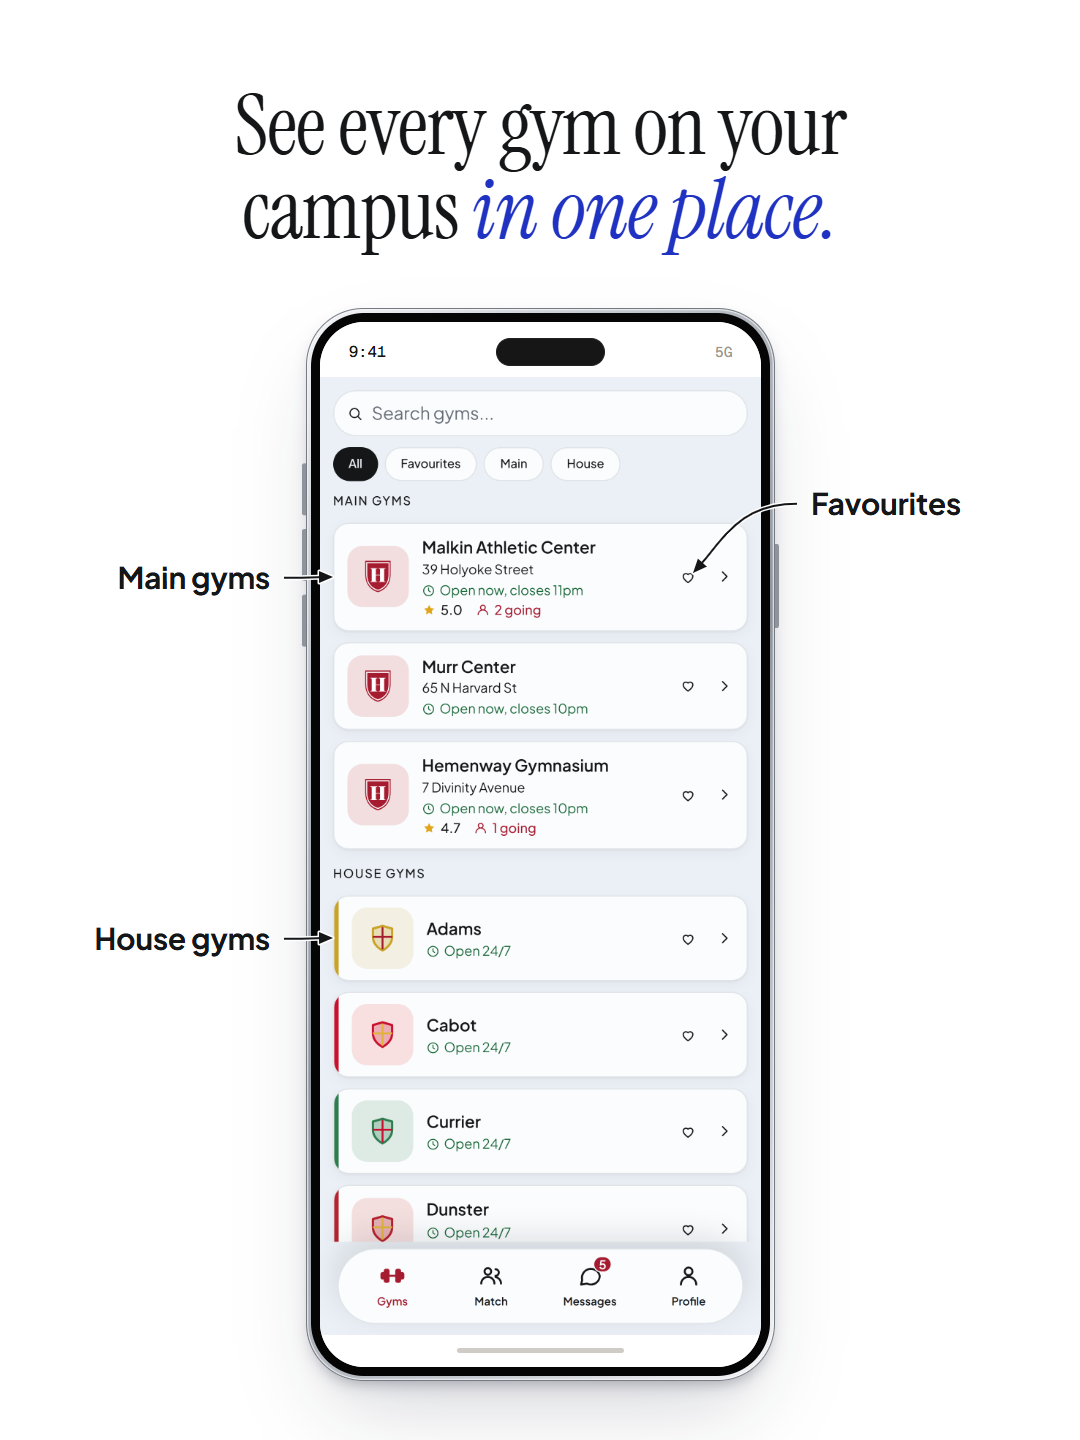
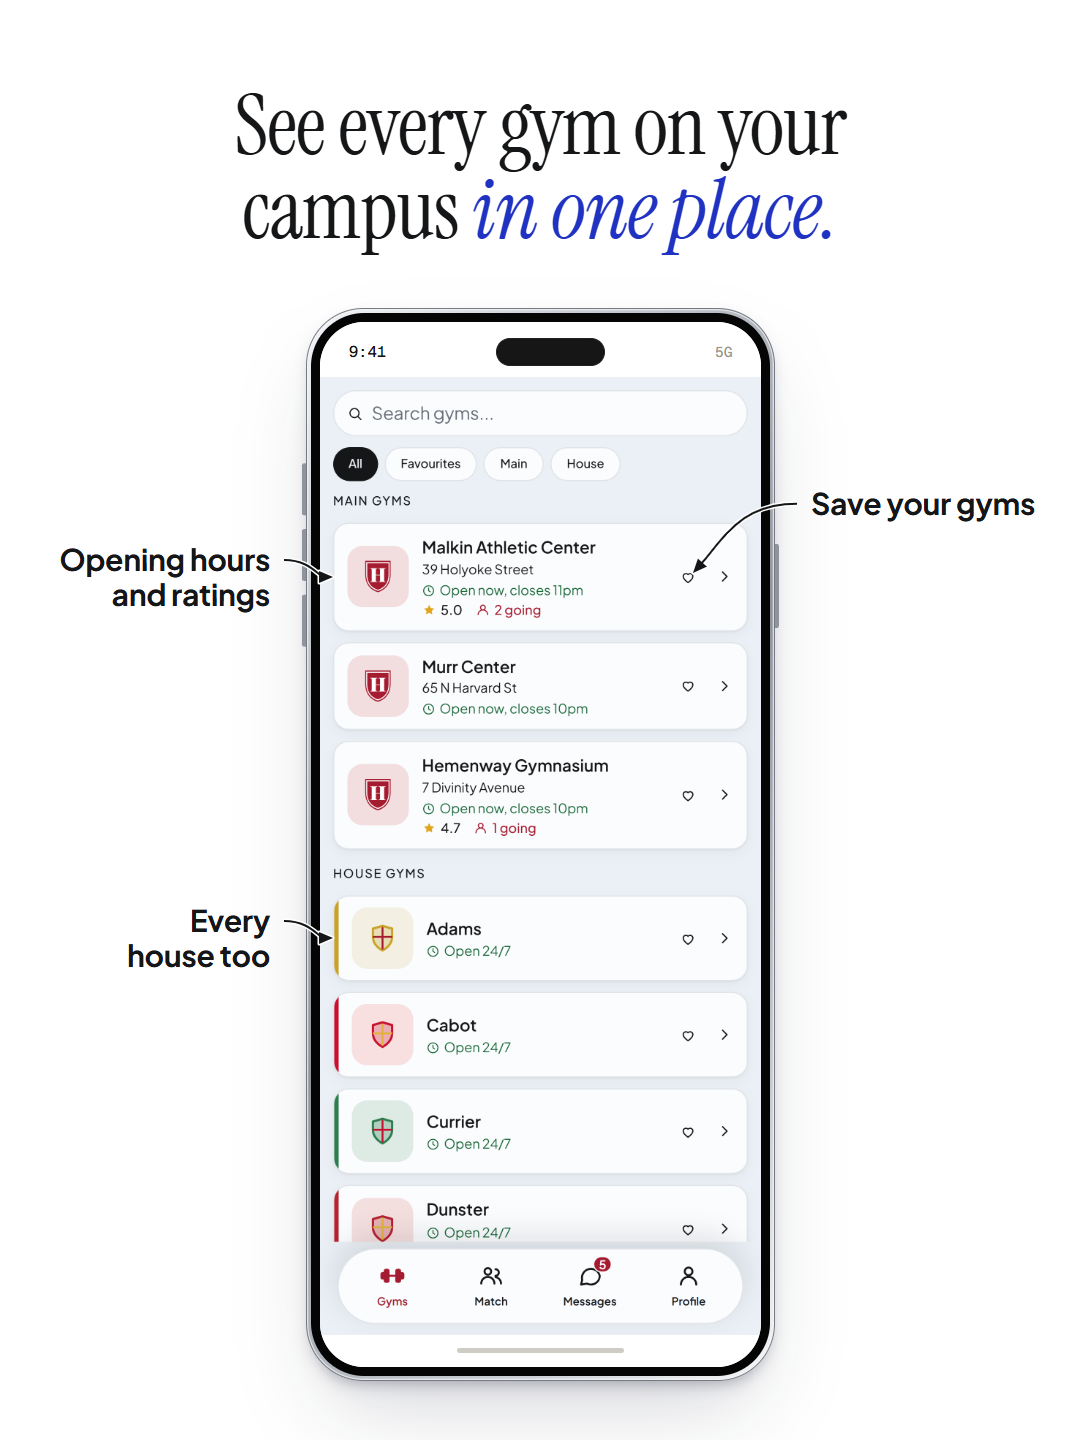
social: labels named in the site's voice, never the word on the screen
Owner: "match do it on left adn pointing to intersts etc and on the right
name it differently and in second dont name it message its obvious find
different name like dont name it the same like its on screen use the
voice we have on webpage".

Match post slide 1: Match stands on the left with its arrow on Ethan's
shared interests and the "how well you fit" line; the People and
Sessions switch is "Somebody to train with" (the About page's words),
Mentors is the site's "New to the gym or campus?". Slide 2: What you
have in common, Your week and theirs, Say hello (on Message). Sessions:
Buddy Board, Only what suits you, Your hours, Train with them. Chat:
Invite them. Profile post: Your training, Look back, Any exercise, Make
memories, Your score, How you compare. The launch carousel had the same
labels and got the same names; its gyms slide is Opening hours and
ratings, Save your gyms, Every house too. All three re-rendered. Rule in
NO-SLOP.md 27.

Changed region(s): [[0.0611, 0.375, 0.3056, 0.4375], [0.0917, 0.625, 0.3056, 0.6875], [0.7639, 0.3438, 0.9778, 0.375]]

diff --git a/NO-SLOP.md b/NO-SLOP.md
@@ -164,10 +164,17 @@ own words, the date. Newest at the bottom of each part.
     with an arrow on that slide, never a slide of its own. (2026-10-22: "cut 3 and jsut
     describe calendar on second image with arrow".)
     A feature slide labels every feature on it worth knowing, not just one (the Sessions slide:
-    Post, Filters, Find by time, Accept), and the screen shows what a label says: "goes into
+    the post button, Filters, Search by time, Accept), and the screen shows what a label says: "goes into
     both of your calendars" points at a plan just accepted, never one still waiting.
     (2026-10-22: "put all the features you think are worth doing", "show something when you
     just accepted from other guy and say it goes to both of your calendars".)
+    A label's name is never the word already on the screen it points at: not "Message" on the
+    Message button, "Filters" on Filters or "Memories" on Memories. It says what you get, in the
+    website's voice: "Say hello", "Only what suits you", "Look back". Match is named on the
+    Match slide, on the left, its arrow on the interests a card shares with you.
+    (2026-10-22: "match do it on left adn pointing to intersts etc and on the right name it
+    differently and in second dont name it message its obvious find different name like dont
+    name it the same like its on screen use the voice we have on webpage".)
 28. **Video sound is soft**: instrumental songs only, no aggressive sound effects, none at all
     except the connecting moment. Real downloaded sounds, never synthesised. No speed changes.
     (2026-09-22: "dont want the sounds to be aggressive rather … smooth"; 2026-09-27: "skip all

diff --git a/SOCIAL.md b/SOCIAL.md
@@ -465,8 +465,12 @@ log workouts to earn points and memories. and then the leaderboards"):
 
 | Post | Slides | Where |
 |---|---|---|
-| Match, 5 | Match list (Match, Browse, Mentors), a profile (Why you match, Compare calendars, Message), Sessions (Post, Filters, Find by time, Accept), the chat ending on a plan from Arjun you just accepted (Plan, Both calendars), the waitlist | `mockups/social/post-match/` |
-| Profile, 4 | Profile (Log, Calendar, Memories), the Log sheet (Add exercise, points, Add a photo), Leaderboards (Points, Competition), the waitlist | `mockups/social/post-profile/` |
+| Match, 5 | Match list (Match on the shared interests, Somebody to train with, New to the gym or campus?), a profile (What you have in common, Your week and theirs, Say hello), Sessions (Buddy Board, Only what suits you, Your hours, Train with them), the chat ending on a plan from Arjun you just accepted (Invite them, Both calendars), the waitlist | `mockups/social/post-match/` |
+| Profile, 4 | Profile (Your training, Calendar, Look back), the Log sheet (Any exercise, Log your workouts, Make memories), Leaderboards (Your score, How you compare), the waitlist | `mockups/social/post-profile/` |
+
+No label is named with the word already on the screen it points at (owner, 2026-10-22: "dont
+name it the same like its on screen use the voice we have on webpage"), so the launch
+carousel's labels were renamed the same way.
 
 Both come from `node scripts/social/launch-carousel.mjs post-match` / `post-profile`. Lines
 are the website's, or the app walk's captions (`lib/tour.ts`) where the site has none.
